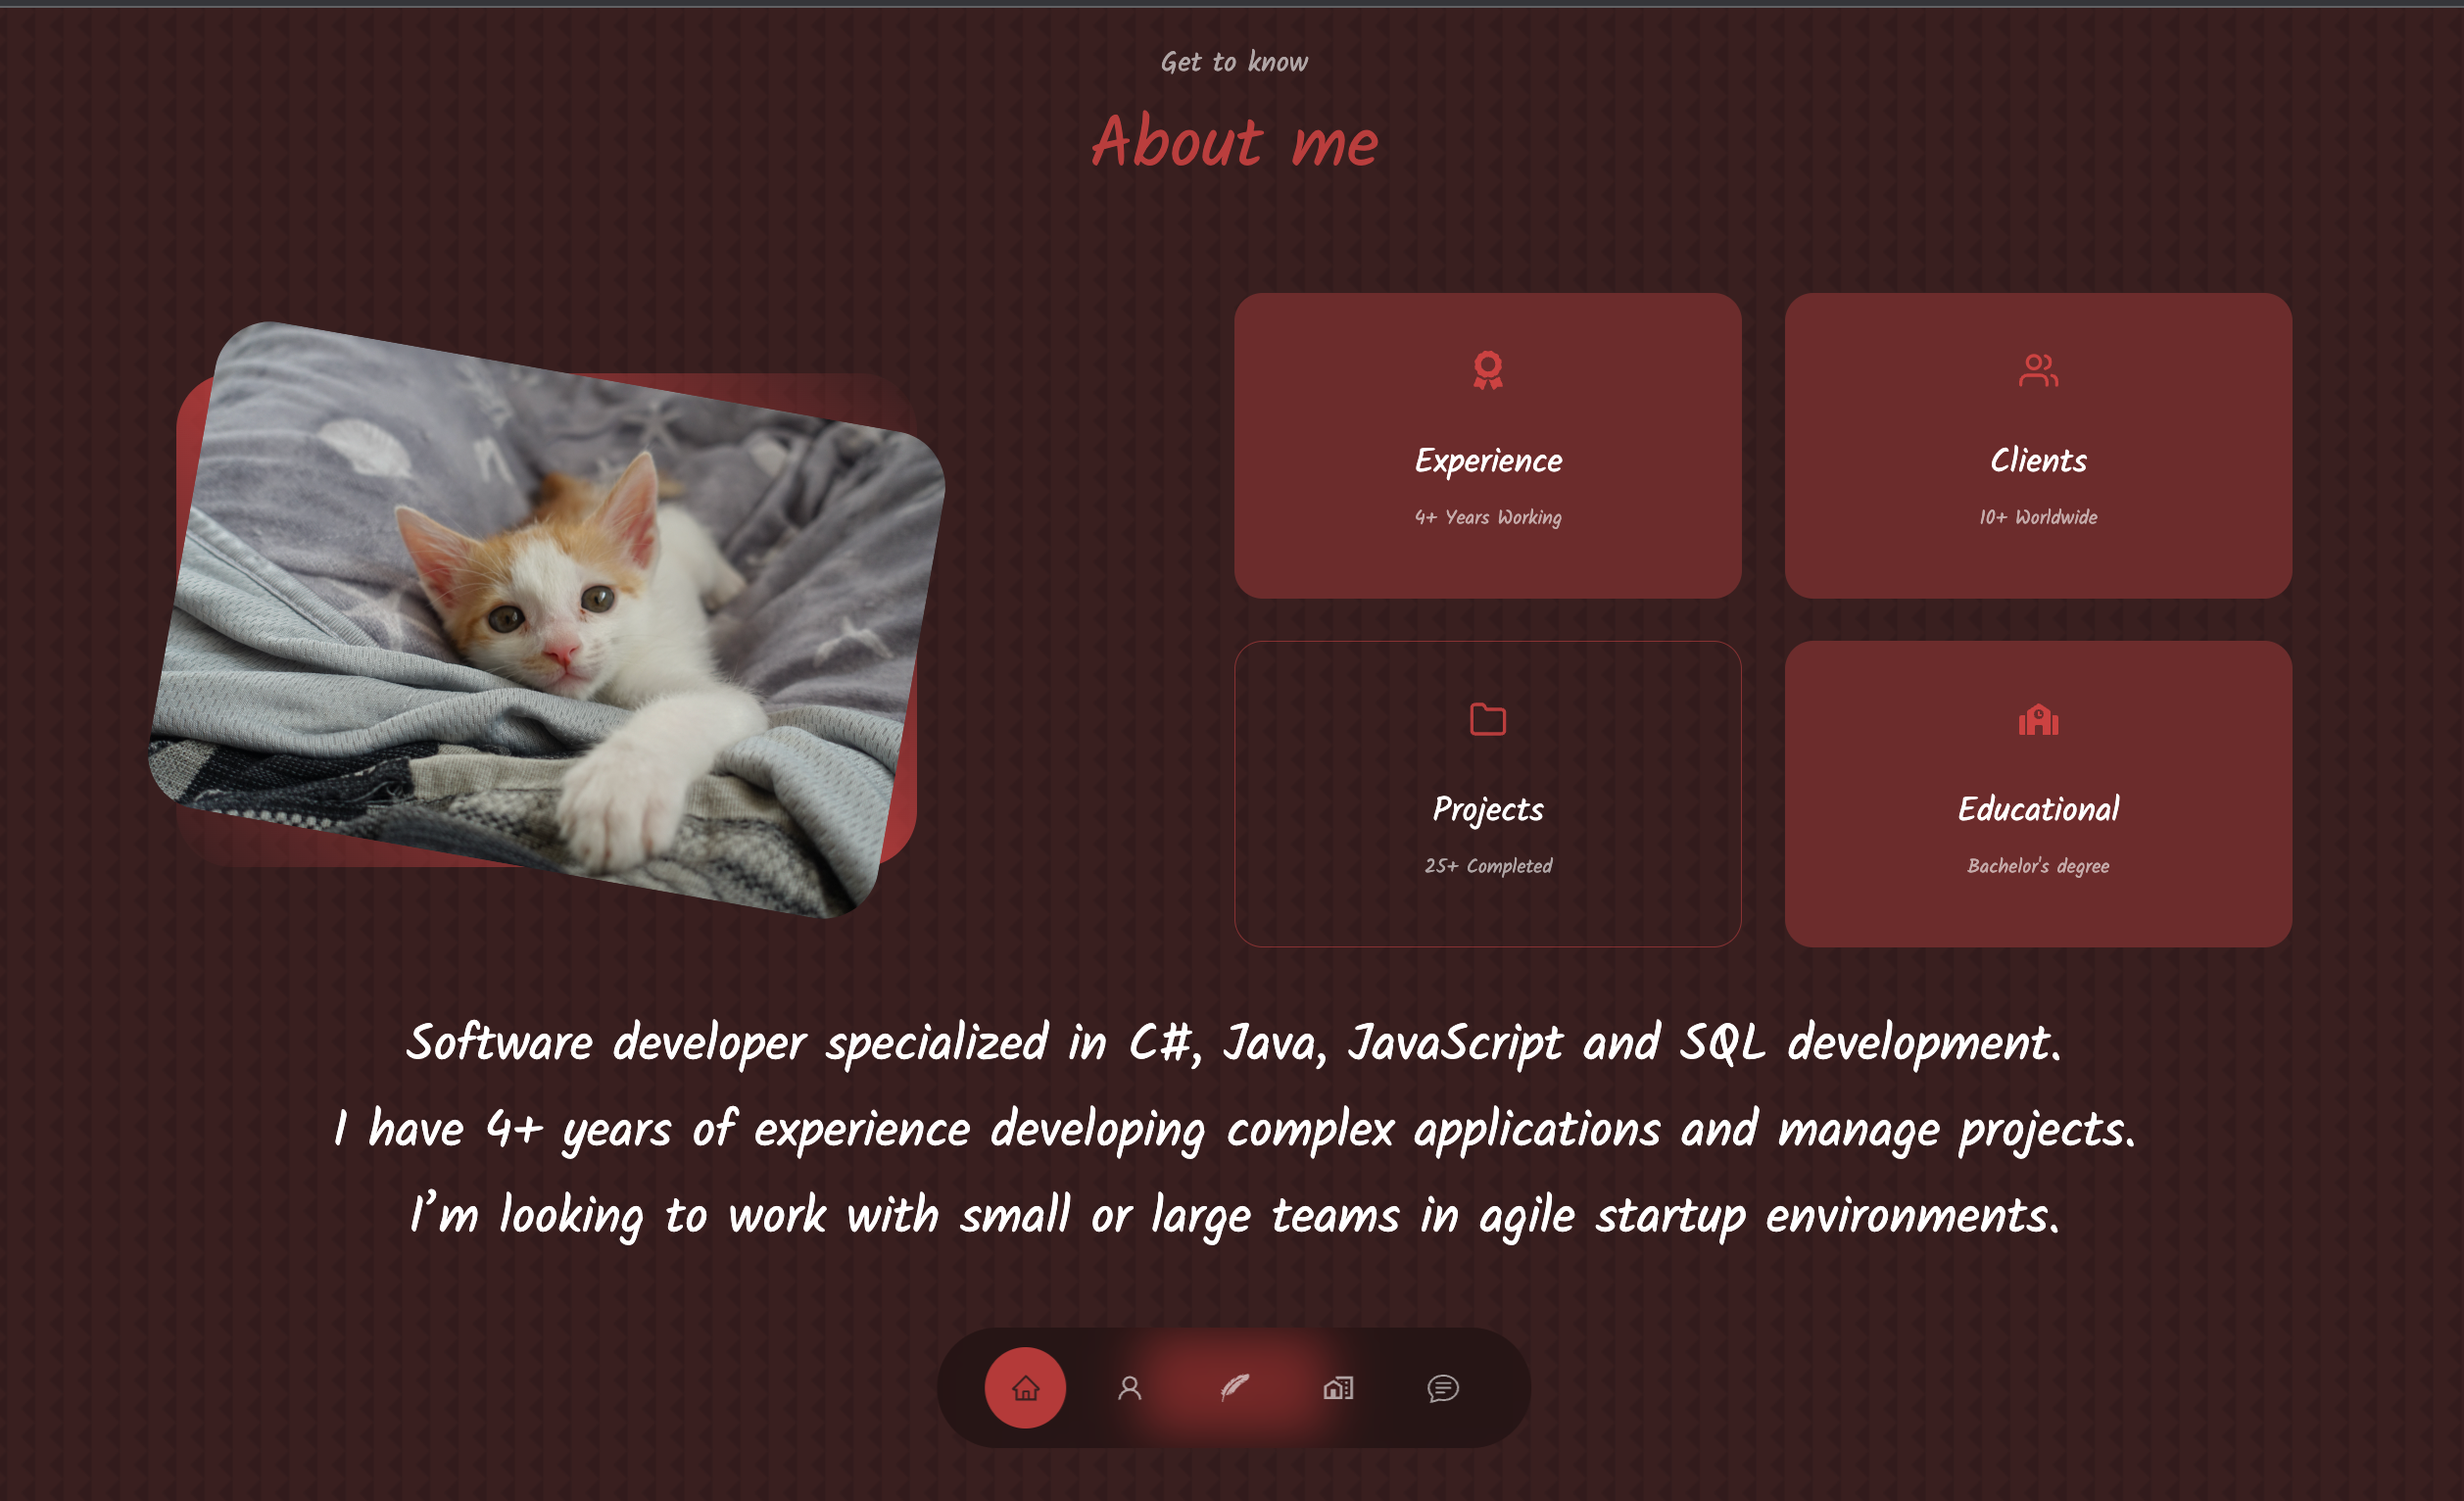
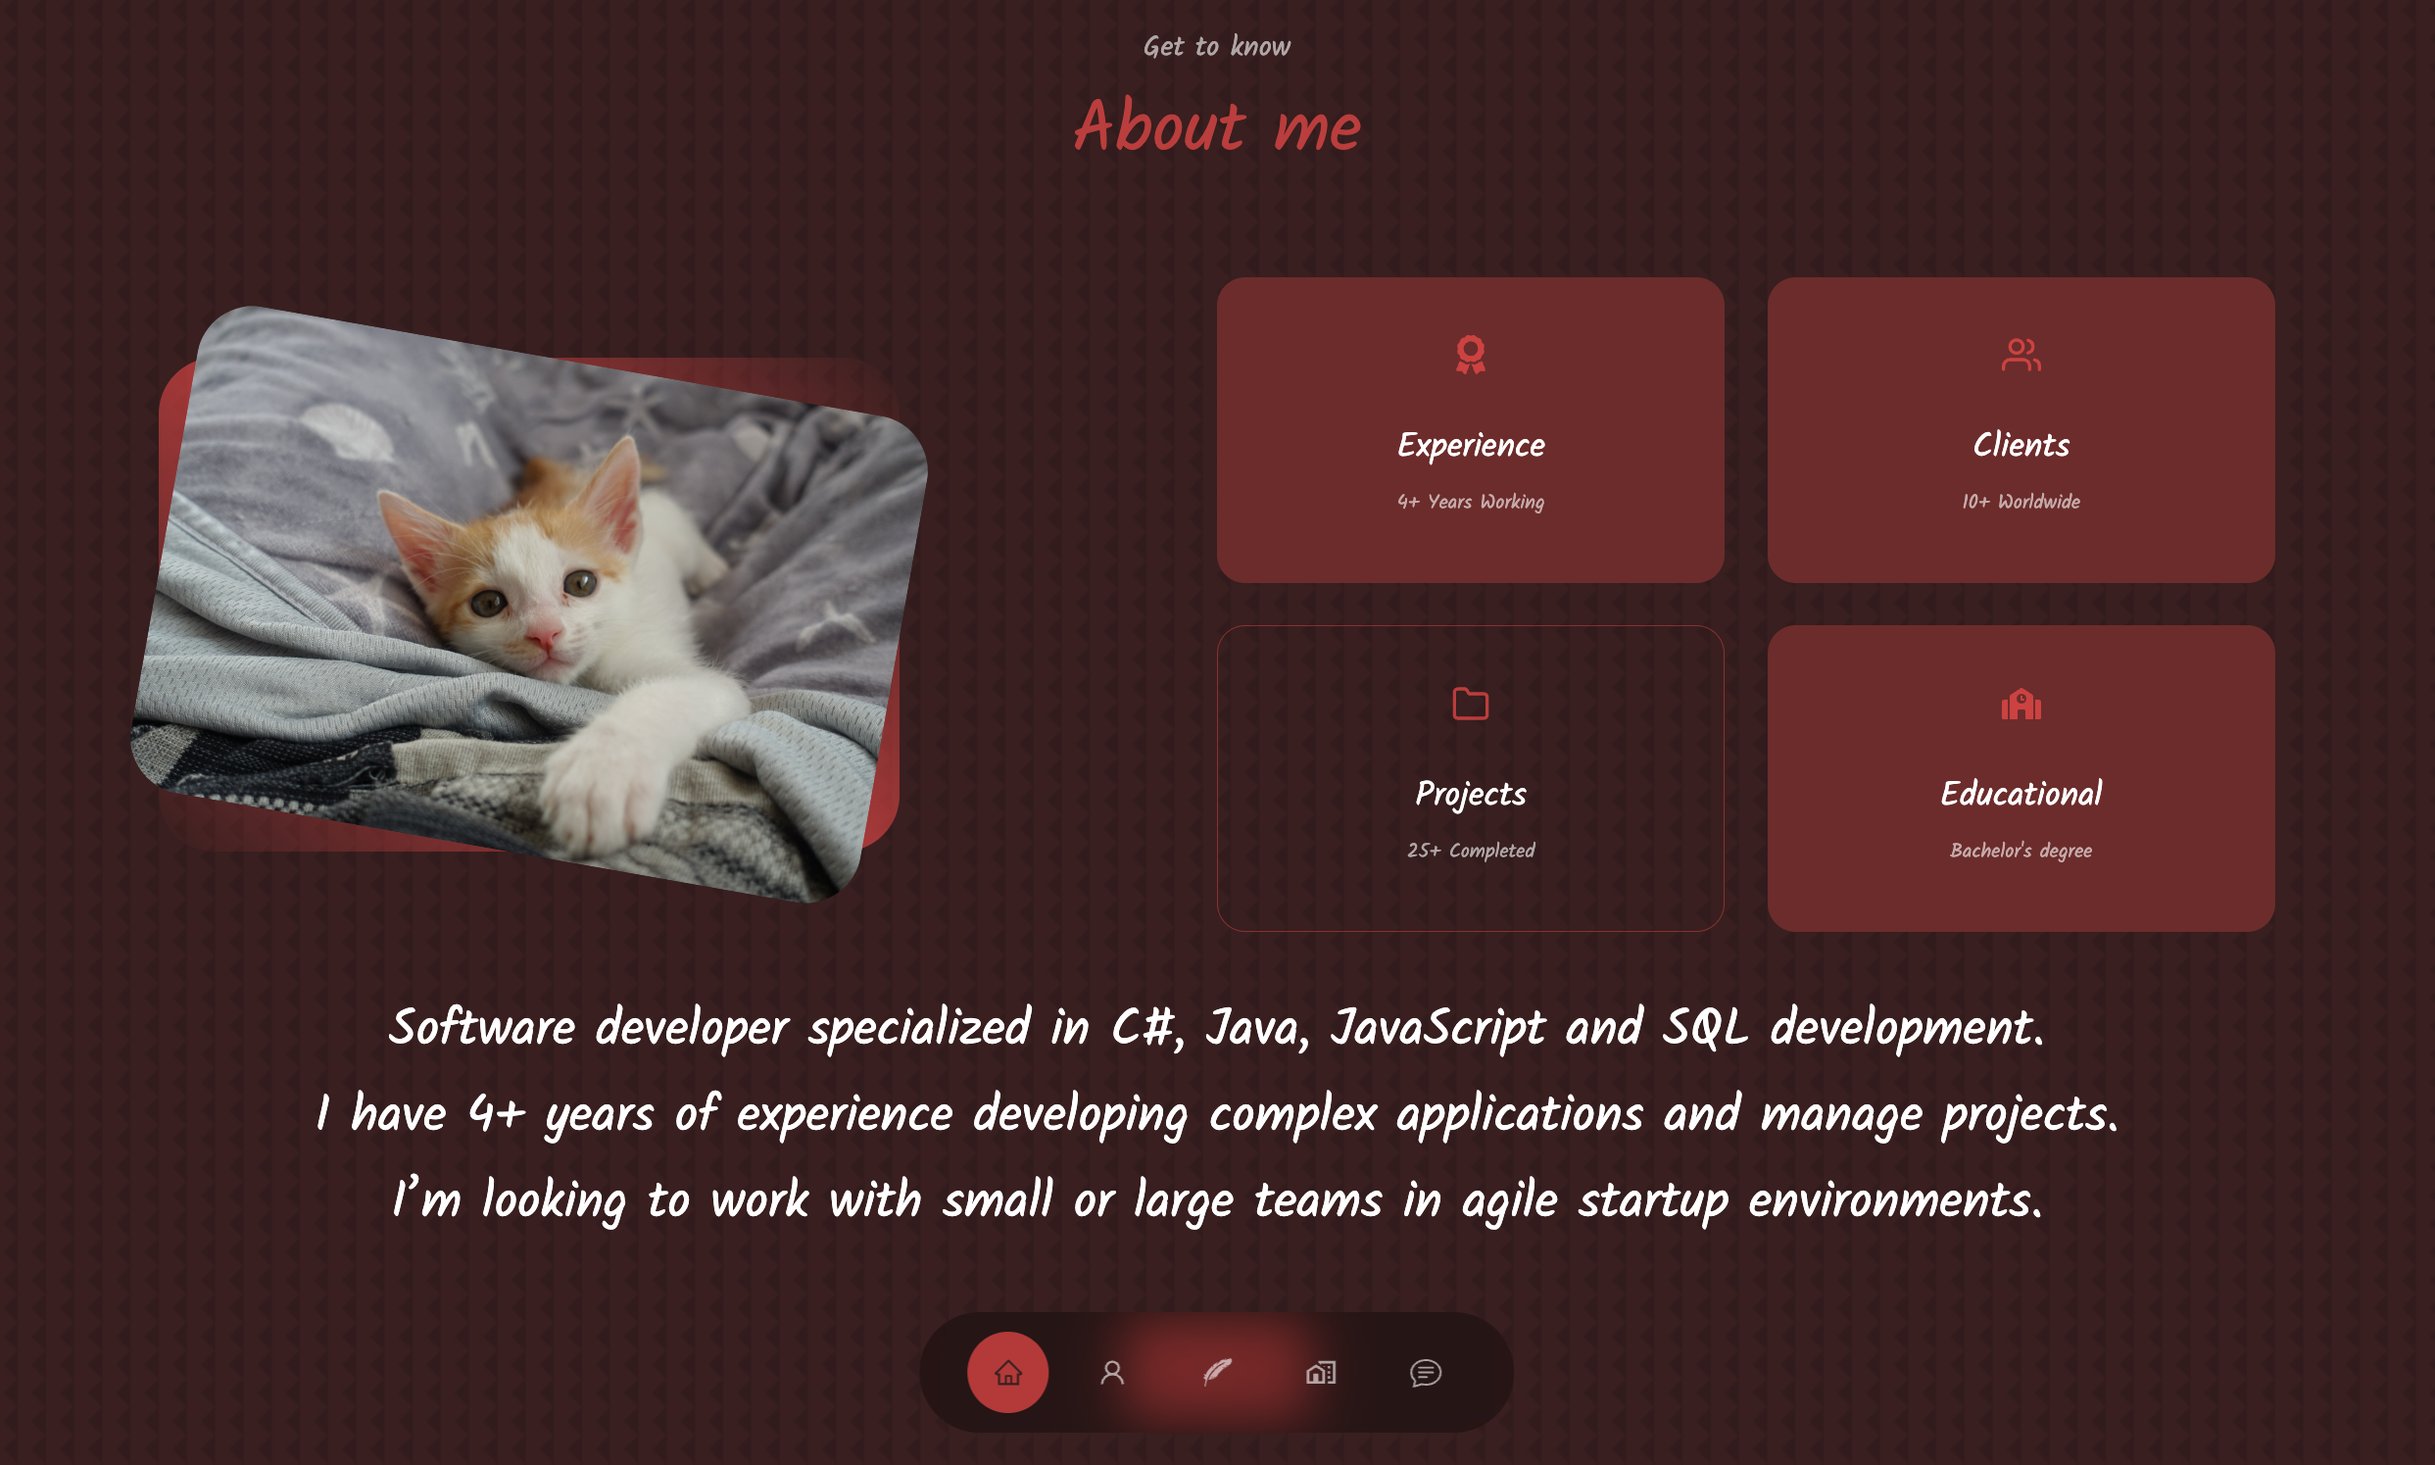
fixed font

diff --git a/src/index.css b/src/index.css
@@ -137,7 +137,8 @@ img {
 }
 
 input::placeholder,
-textarea::placeholder {
+textarea::placeholder,
+button {
   font-family: "Kalam", cursive;
   font-size: 1rem;
 }
